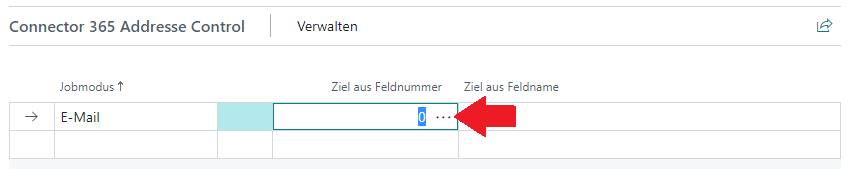
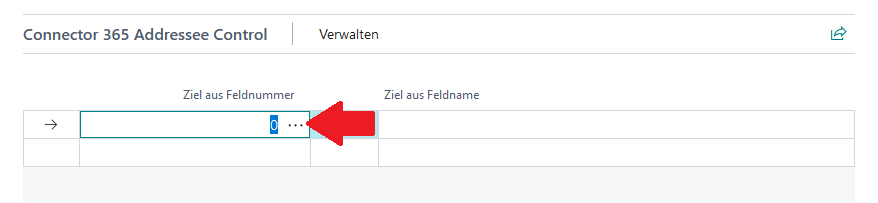
Nehme die Dimension 'Jobmodus' für Addressee Control heraus
Überarbeitet die Dokumentation von Addressee Control, da
es aktuelle den Jobmode nicht mehr einzustellen gibt.
Veränderte Screenshots und Anpasungen an dem Schritt für Schritt
Vorgehen für Einrichtung ung Nutzung.

diff --git a/content/de-de/Apps/addressee-control/first steps/setup/Zieladdressen.md b/content/de-de/Apps/addressee-control/first steps/setup/Zieladdressen.md
@@ -26,26 +26,20 @@ Bitte beachten Sie die folgende Tabelle der aktuell nutzbaren Berichtsauswahlen 
 | Bankkonto | <img src="/images/apps/Addresse_Control/cross.png" width=30 >  |
 | Projekt | <img src="/images/apps/Addresse_Control/cross.png" width=30 >  |
 
+Die **Connector 365 Addressee Control** App erweitert unterstützte Berichtsauswahl-Pages um eine
+Subpage.
 
 *Beispiel aus dem Bereich Verkauf -> **Berichtsauswahl - Verkauf**:*
 
 |<img src="/images/apps/Addresse_Control/Berichtsauswahl_Verkauf.png" />|
 |-|
 
-
-Nun haben Sie die Möglichkeit, für verschiedene Berichtsverwendungen und Jobmodis die Zieladressen-Logik einzustellen.
-Wählen Sie also unter **Jobmodus** zuerst den Gewünschten Modus ein (*z.B: E-Mail*).
-Anschließend klicken Sie auf den **Assist Button** (***Drei Pünktchen***) des Feldes **Ziel aus Feldnummer**.
+Nun haben Sie die Möglichkeit, für verschiedene Berichtsverwendungen die Zieladressen-Logik einzustellen.
+Klicken Sie hierzu auf den **Assist Button** (***Drei Pünktchen***) des Feldes **Ziel aus Feldnummer**.
 
 |![](/images/apps/Addresse_Control/Berichtsauswahl_Verkauf_AssistButton.png)|
 |-|
 
-{{< notice info Hinweis >}}
-Mit Jobmodus ist hier gemeint, für welche Art von Verarbeitung die eingestellte Zieladressen-Logik greift. Immer vorhanden
-ist der Jobmodus E-Mail, also der standartisierte Mail-Versand von Business Central.
-Es lassen sich zudem allerdings auch weitere **Connector 365 Apps** über **Connector 365 Addresse Control** steuern.
-Welche Apps hierfür kompatibel sind, erfahren Sie [hier](de-de/apps/addresse-control/first-steps/setup/zieladdressen/#ACCon365).
-{{< /notice >}}
 Damit öffnet sich eine neue Seite: **Mögliche Zieladressen**.
 
 |![](/images/apps/Addresse_Control/Zieladdressen_Lookup_Page.png)|
@@ -53,7 +47,15 @@ Damit öffnet sich eine neue Seite: **Mögliche Zieladressen**.
 
 Nun haben Sie die Möglichkeit, eines der aufgezeigten Felder als Standard-Zieladresse zu definieren.
 Die angezeigten Felder auf dieser Seite sind Felder, welche einen direkten Bezug zu einem Debitor/Kreditor oder zu einem Kontakt haben.
-Legt man also beispielsweise für die Verwendung (Verkaufs-)**Rechnung**, Jobmodus **E-Mail** eine Verknüpfung zu Feld Nr. **2** - **Verk. an Deb.-Nr.** an, so wird der Empfänger einer Verkaufsrechnung künftig immer aus dem Debitor gesucht, welcher mit **Verk. an Deb.-Nr** verknüpft ist.
+Legt man also beispielsweise für die Verwendung (Verkaufs-)**Rechnung** eine Verknüpfung zu Feld Nr. **2** - **Verk. an Deb.-Nr.** an, so wird der Empfänger einer Verkaufsrechnung künftig immer aus dem Debitor gesucht, welcher mit **Verk. an Deb.-Nr** verknüpft ist.
+
+{{< notice info>}}
+Wählt man als Zieladresse eine Feldzuordnung zu einem Debitor/Kreditor, so hat dies auch Einfluss auf die Wahl
+der Dokumentlayouts. Wenn Sie beispielsweise für Verkaufsrechnungen festlegen, dass der Verkauf-an-Debitor für 
+die Suche nach Zieladressen herangezogen werden soll, so werden auch die Einstellungen der Dokumentlayouts des
+entsprechenden Debitors entnommen. Standardmäßig ist in Business Central hierfür der Rechnungsempfänger vorgesehen. 
+Mit **Connector 365 Addressee Control** können Sie also dieses Verhalten übersteuern.
+{{< /notice >}}
 
 <a name="ACCon365" class="anchor"></a>
 ### Kompatibilität zu anderen **Connector 365 Apps**
@@ -67,10 +69,3 @@ Folgende **Connector 365 Apps** sind kompatibel zu **Connector 365 Addressee Con
 -  **Connector 365 Mail Experience Plus**
    >  **Connector 365 Mail Attachments Plus**
    >  **Connector 365 Mail Subject Plus**
-
-Um weitere Jobmodis (bzw. Apps) per **Addresse Control** einzurichten, können Sie einfach weitere Zeilen in der **Connector 365 Addresse Control** Seite hinzufügen.
-{{< notice info Beispiel >}}
-{{< /notice >}}
-
-|![](/images/apps/Addresse_Control/Berichtsauswahl_Verkauf_Mehrere_Zeilen.png)|
-|-|

diff --git a/content/de-de/Apps/addressee-control/Working with Addresse Control/Zieladressen.md b/content/de-de/Apps/addressee-control/Working with Addresse Control/Zieladressen.md
@@ -1,0 +1,41 @@
+---
+title: "Zieladressen"
+date: 2022-10-20T00:00:00.000-05:00
+description: 
+draft: false
+collapsible: true
+weight: 4
+---
+# Arbeiten mit festgelegten Zieladressen
+
+Zur Darstellung der Funktionsweise wird im Folgenden beispielhaft der Umgang mit gebuchten Verkaufsrechnungen dargestellt. Es wird hierbei vorausgesetzt, dass der Verkauf-An-Debitor für die Verkaufsrechnungen mithilfe der 
+**Connector 365 Addressee Control** als Zieladresse eingerichtet wurde:
+
+|![](/images/apps/Addresse_Control/Berichtsauswahl_Verkauf_Example_WorkWith.png)|
+|-|
+
+Angenommen es soll eine Rechnung verschickt werden, bei welchem der Rechnungsempfänger und der Käufer verschieden sind:
+|![](/images/apps/Addresse_Control/GebVerkRechnungen_SellToBillToCust.png)|
+|-|
+
+{{< notice info Hinweis >}}
+Zur Vereinfachung wurden im Folgenden für den Rechnungsempfänger **Bill-To-Customer@mail.de** eingerichtet, für den Käufer **Sell-To-Customer@mail.de**.
+{{< /notice >}}
+
+</br>
+
+Bei Ausführen der Aktion: **Per E-Mail senden**, wird im Standard normalerweise die E-Mail-Adresse des Rechnungsempfängers im E-Mail-Dialog eingetragen:
+
+|![](/images/apps/Addresse_Control/MailDialog_SellToCust.png)|
+|-|
+
+Mit der Einstellung jedoch, dass der Verkauf-an-Debitor für das Setzen der Zieladressen herangezogen werden soll, sieht der Dialog wie folgt aus:
+
+|![](/images/apps/Addresse_Control/MailDialog_BillToCust.png)|
+|-|
+
+
+
+Hier wurde nun die E-Mail Adresse des Verkauf-an-Debitors als Zieladresse festgelegt. 
+In diesem Beispiel waren weder für den Rechnungsempfänger noch für den Käufer ein Dokumentlayout eingerichtet worden.
+Sofern eingerichtet, werden jedoch noch weitere Empfänger (CC und BCC) entsprechend der eingerichteten Zieladressen-Logik übernommen.

diff --git a/content/de-de/Apps/addressee-control/first steps/installation/onprem.md b/content/de-de/Apps/addressee-control/first steps/installation/onprem.md
@@ -37,7 +37,7 @@ Anschließend sollten Sie den Prozess auch noch für die eigentliche Connector 3
 
 **Beispiel:**
 
-```Publish-NAVApp -ServerInstance IhreBusinessCentralInstanz -Path ".\CTIforSTARFACE.app"```
+```Publish-NAVApp -ServerInstance IhreBusinessCentralInstanz -Path ".\AddresseeControl.app"```
 
 Beide Apps sollten nun im System veröffentlicht sein.
 
@@ -79,7 +79,7 @@ Es folgt noch die Connector 365 Addresse Control App:
 
 ```Install-NAVApp -ServerInstance IhreBusinessCentralInstanz -Name "Connector 365 Addresse Control" -Tenant Tenant1, Tenant2```
 
-Sie können nun mit der [Einrichtung](/de-de/apps/cti-for-starface/first-steps/setup/) starten.
+Sie können nun mit der [Einrichtung](/de-de/apps/addressee-control/first-steps/setup/) starten.
 
 
 

diff --git a/content/de-de/Apps/addressee-control/new and planned/_index.md b/content/de-de/Apps/addressee-control/new and planned/_index.md
@@ -6,7 +6,7 @@ draft: false
 collapsible: true
 weight: 1
 ---
-### Neue und geplante Features der Connector 365 CTI for STARFACE App
+### Neue und geplante Features der **Connector 365 Addressee Control** App
 
 Hier finden Sie alle wichtigen Informationen und Hinweise zu neuen und geplanten Features der Connector 365 Addresse Control App.
 

diff --git a/content/de-de/Apps/addressee-control/Working with Addresse Control/_index.md b/content/de-de/Apps/addressee-control/Working with Addresse Control/_index.md
@@ -3,7 +3,7 @@ title: "Arbeiten mit Connector 365 Addresse Control"
 date: 2022-07-04T00:00:00.000-05:00
 description: 
 draft: false
-collapsible: true
+collapsible: false
 weight: 3
 ---
 ### Arbeiten mit der Connector 365 Addresse Control

diff --git a/content/de-de/Apps/addressee-control/first steps/installation/appsource.md b/content/de-de/Apps/addressee-control/first steps/installation/appsource.md
@@ -2,7 +2,7 @@
 title: "AppSource"
 date: 2020-02-28T10:08:56+09:00
 description: 
-draft: false
+draft: true
 collapsible: false
 weight: 1
 ---
